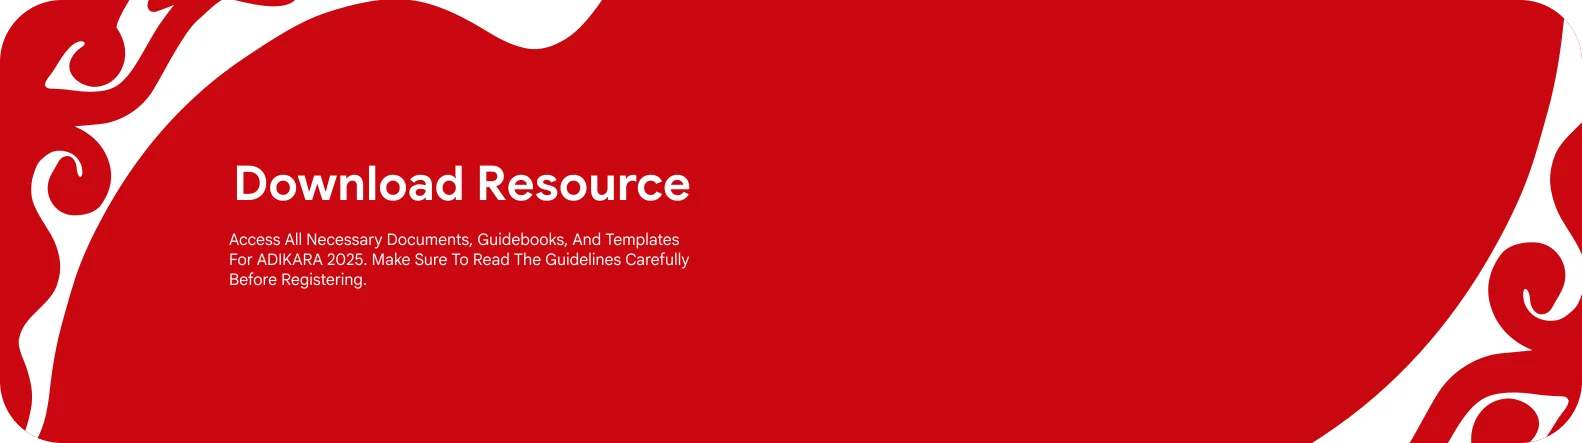
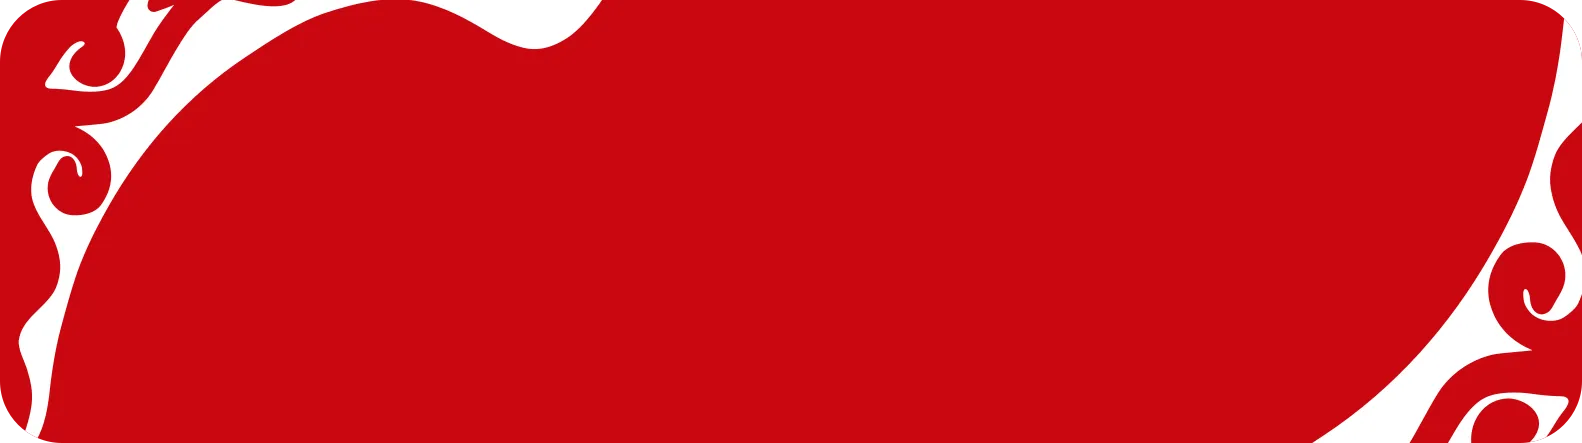
feat: added resource button and fixing download resource section

Changed region(s): [[0.1239, 0.5282, 0.4336, 0.6456], [0.1239, 0.3521, 0.4336, 0.4695]]

diff --git a/app/globals.css b/app/globals.css
@@ -283,10 +283,54 @@ a {
   margin-top: 5px;
 }
 
+.hero-buttons {
+  align-items: center;
+  display: flex;
+  flex-wrap: wrap;
+  gap: 12px;
+  justify-content: center;
+  position: relative;
+  z-index: 2;
+}
+
 .button-hero {
+  box-shadow: none;
   font-size: 15px;
   height: 49px;
-  min-width: 206px;
+  min-width: 155px;
+  padding: 0 24px;
+}
+
+.button-hero:hover,
+.button-hero:focus-visible {
+  box-shadow: none;
+  transform: translateY(-2px) scale(1.04);
+}
+
+.button-hero:active {
+  box-shadow: none;
+  transform: translateY(0) scale(0.97);
+}
+
+.button-hero-secondary {
+  background: transparent;
+  border: 2px solid var(--adikara-red);
+  box-shadow: none;
+  color: var(--adikara-red);
+}
+
+.button-hero-secondary:hover,
+.button-hero-secondary:focus-visible {
+  background: var(--adikara-red);
+  box-shadow: none;
+  color: #fff;
+}
+
+.button-hero-secondary:active {
+  background: var(--adikara-dark-red);
+  border-color: var(--adikara-dark-red);
+  box-shadow: none;
+  color: #fff;
 }
 
 .hero-decor {
@@ -1633,6 +1677,7 @@ a {
 
 .download-resource-card {
   border-radius: 28px;
+  container-type: inline-size;
   overflow: hidden;
   position: relative;
   width: 100%;
@@ -1648,8 +1693,8 @@ a {
   align-items: center;
   display: flex;
   inset: 0;
-  justify-content: flex-end;
-  padding: 0 8% 0 7%;
+  justify-content: space-between;
+  padding: 0 12% 0 18%;
   position: absolute;
   width: 100%;
   z-index: 2;
@@ -1657,21 +1702,25 @@ a {
 
 .download-resource-info {
   color: #fff;
-  display: none;
-  max-width: 500px;
+  display: block;
+  max-width: min(460px, 34%);
+  min-width: 0;
 }
 
 .download-resource-info h2 {
   color: #fff;
-  font-size: clamp(28px, 3vw, 36px);
+  font-size: clamp(24px, 3vw, 44px);
+  font-size: clamp(24px, 3.1cqw, 44px);
   font-weight: 700;
+  line-height: 1.1;
   margin-bottom: 10px;
   text-align: left;
 }
 
 .download-resource-info p {
   color: rgba(255, 255, 255, 0.9);
-  font-size: 14px;
+  font-size: clamp(13px, 1.1vw, 16px);
+  font-size: clamp(13px, 1.1cqw, 16px);
   line-height: 1.5;
   margin: 0;
   text-align: left;
@@ -1683,7 +1732,7 @@ a {
   display: flex;
   flex-direction: column;
   gap: 10px;
-  max-height: 262px;
+  max-height: min(262px, 78%);
   min-width: 340px;
   overflow-y: auto;
   overscroll-behavior: contain;
@@ -1791,6 +1840,15 @@ a {
 
 .resource-button:hover .link-circle svg {
   transform: translate(2px, -2px);
+}
+
+/* Narrow desktop band (just above the mobile breakpoint): the card is too
+   short for the full 18%/12% inset, so ease it off to keep a gap between
+   the copy and the scrollable list. */
+@media (min-width: 769px) and (max-width: 860px) {
+  .download-resource-content {
+    padding: 0 8% 0 12%;
+  }
 }
 
 /* MyProdigi Desktop / Mobile Button Switch */
@@ -2437,12 +2495,14 @@ a {
     display: flex;
     flex-direction: column;
     gap: 24px;
+    justify-content: flex-start;
     padding: 0;
     position: static;
   }
 
   .download-resource-info {
     display: block;
+    max-width: 100%;
   }
 
   .download-resource-info h2 {

diff --git a/components/landing/DownloadResourceSection.tsx b/components/landing/DownloadResourceSection.tsx
@@ -54,13 +54,32 @@ function ExternalLinkIcon() {
   );
 }
 
+function DownloadIcon() {
+  return (
+    <svg
+      width="18"
+      height="18"
+      viewBox="0 0 24 24"
+      fill="none"
+      stroke="currentColor"
+      strokeWidth="2"
+      strokeLinecap="round"
+      strokeLinejoin="round"
+    >
+      <path d="M12 15V3" />
+      <path d="m7 10 5 5 5-5" />
+      <path d="M20 21H4" />
+    </svg>
+  );
+}
+
 export function DownloadResourceSection() {
   const sectionRef = useRef<HTMLElement>(null);
   const [isVisible, setIsVisible] = useState(false);
 
   useEffect(() => {
     if (typeof window !== "undefined" && window.location.hash === "#download-resource") {
-      setIsVisible(true);
+      requestAnimationFrame(() => setIsVisible(true));
     }
 
     const observer = new IntersectionObserver(
@@ -100,7 +119,7 @@ export function DownloadResourceSection() {
 
           <div className="download-resource-content">
             <div className="download-resource-info">
-              <h2 id="resource-title">Download Resource</h2>
+              <h2 id="resource-title">Resource</h2>
               <p>
                 Access All Necessary Documents, Guidebooks, And Templates For ADIKARA 2026. Make Sure To Read The Guidelines Carefully Before Registering.
               </p>
@@ -125,7 +144,7 @@ export function DownloadResourceSection() {
                     <span className="resource-button-label">{resource.label}</span>
                   </div>
                   <span className="link-circle" aria-hidden="true">
-                    <ExternalLinkIcon />
+                    {resource.external ? <ExternalLinkIcon /> : <DownloadIcon />}
                   </span>
                 </a>
               ))}

diff --git a/components/landing/hero.tsx b/components/landing/hero.tsx
@@ -78,14 +78,22 @@ export function Hero() {
         <h1 id="hero-title">
           ADIKARA <span>2026</span>
         </h1>
-        <a
-          className="button button-hero"
-          href="https://helloprodigi.pro/PendaftaranAdikara2026"
-          target="_blank"
-          rel="noopener noreferrer"
-        >
-          Register Now
-        </a>
+        <div className="hero-buttons">
+          <a
+            className="button button-hero"
+            href="https://helloprodigi.pro/PendaftaranAdikara2026"
+            target="_blank"
+            rel="noopener noreferrer"
+          >
+            Register Now
+          </a>
+          <a
+            className="button button-hero button-hero-secondary"
+            href="#download-resource"
+          >
+            Important Link
+          </a>
+        </div>
       </div>
     </section>
   );
